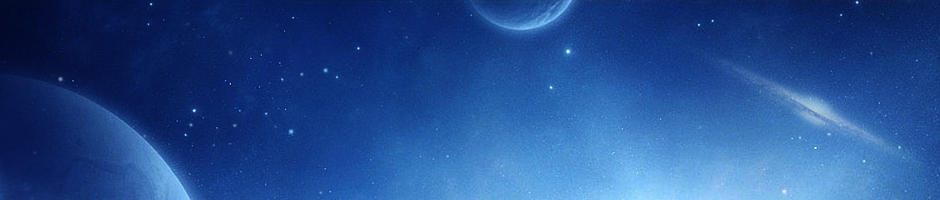
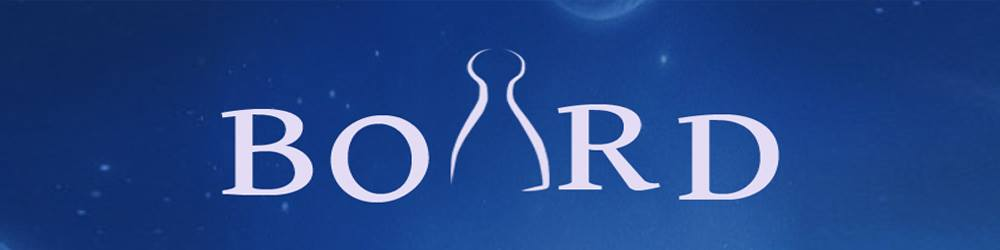
New Header Image

diff --git a/website/stylization/main_style.css b/website/stylization/main_style.css
@@ -40,6 +40,7 @@ body {
 
 body header img {
 	width: 100%;
+	max-height: 250px;
 }
 
 h1, h2, h3, h4, h5, h6 {
